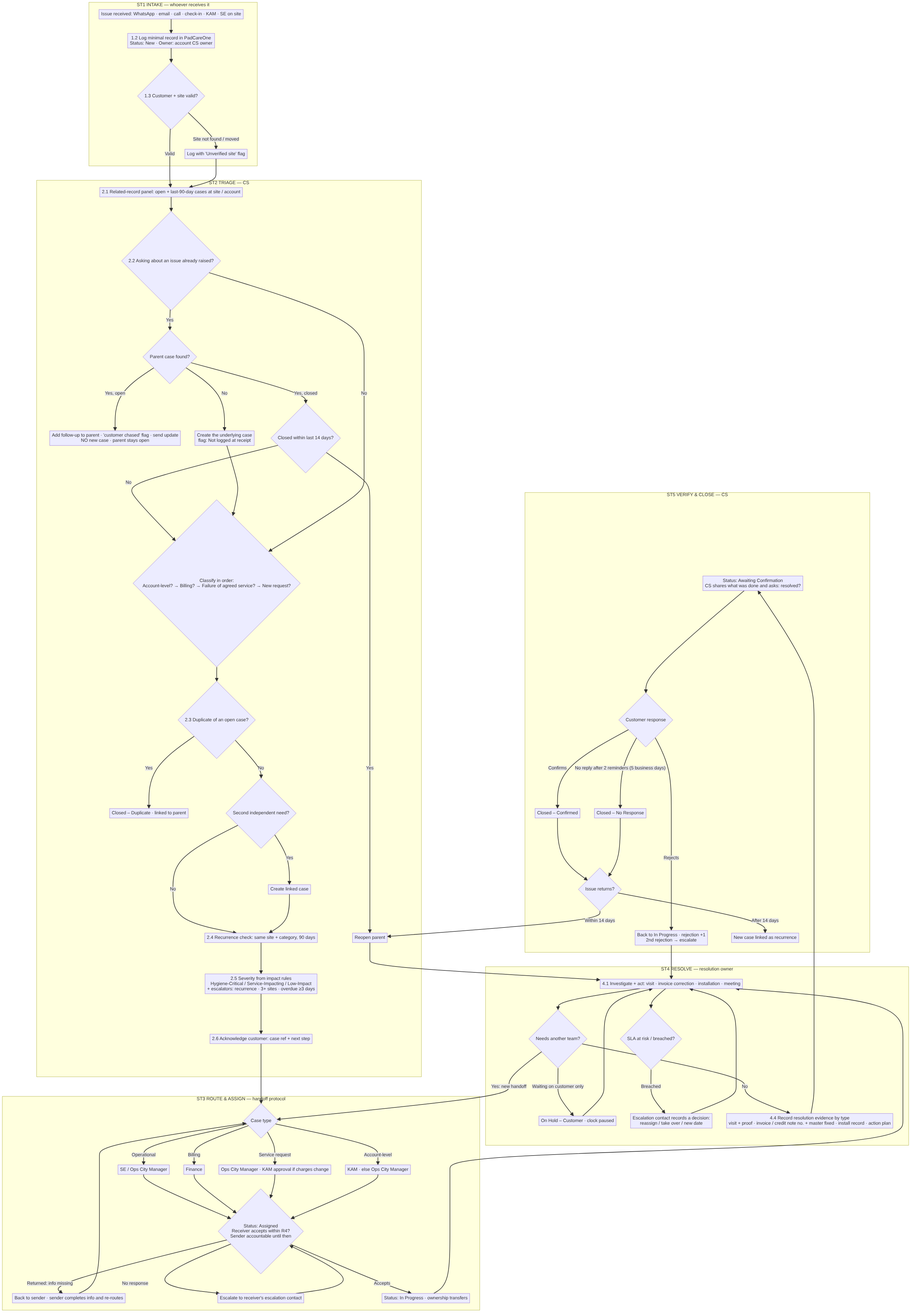
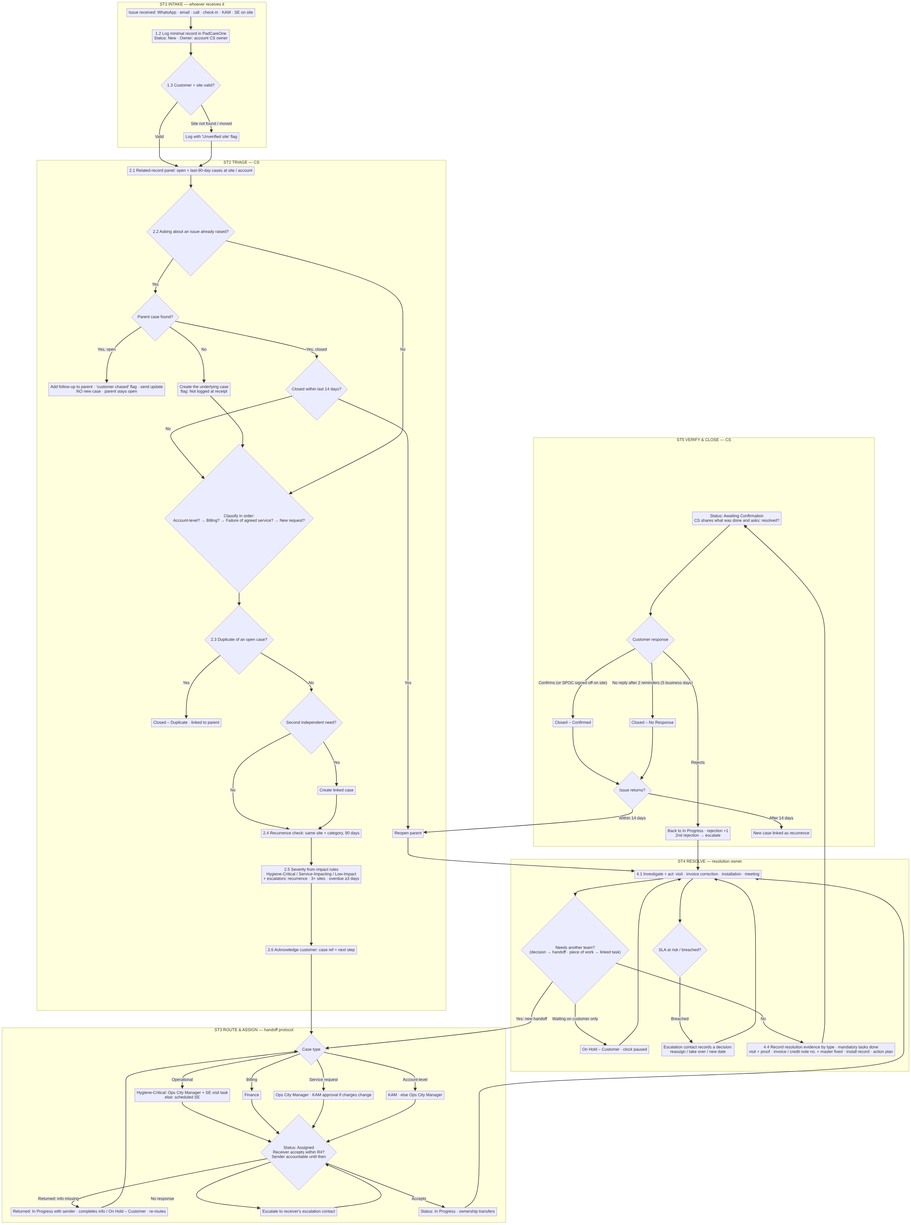
Add PadCare assessment Phase 4: walkthroughs, design review, v1.1 flow fixes
Claude-Session: https://claude.ai/code/session_01P9ewpUXrB5sSqw25BBShWy

Changed region(s): [[0.0, 0.0, 1.0, 1.0], [0.0, 0.9631, 0.1864, 0.9942]]

diff --git a/padcare-assessment/02_phase2/end_to_end_flow.md b/padcare-assessment/02_phase2/end_to_end_flow.md
@@ -1,5 +1,7 @@
 # Phase 2 — End-to-End Process Design
 
+Revision: v1.1 — walkthrough fixes F-1…F-8, F-10 applied (marked †; see `04_phase4/design_review.md`).
+
 Diagram: `complaint_lifecycle.mmd` (rendered: `complaint_lifecycle.png`). SLA targets: `sla_matrix.md`.
 Case types and the classification order come from `01_phase1/classification_matrix.md` and are reused unchanged.
 All rules here are **proposals** for validation with PadCare `[A-07]`.
@@ -37,6 +39,8 @@ All rules here are **proposals** for validation with PadCare `[A-07]`.
 The Log step is meant to take about 2 minutes. Everything else is completed at Triage `[D-15]`.
 Mandatory at Log: customer account, site, reporter (name, contact, role), channel, date/time received (defaults to now and can be backdated), customer's words (verbatim), and the logger's best-guess type.
 *Full field specification: Phase 5.*
+
+If CS already replied informally before logging (e.g., "checking" on WhatsApp), the logger records **"customer already acknowledged at [time]"**. This is kept as a customer update, but only an acknowledgement that includes a case reference counts towards R3 † (F-10).
 
 On save:
 - Case ID generated.
@@ -102,8 +106,8 @@ This turns "the third bad-odour complaint" (C-02) into a visible, rule-driven ev
 | Level | Definition (observable test) | Examples from the brief |
 |---|---|---|
 | **Hygiene-Critical** | A hygiene or health exposure **exists at the site now**: waste uncollected beyond schedule with units full, overflowing units, a damaged or leaking unit, contamination | S-01 (if units are full or overdue), the overflow half of S-03 |
-| **Service-Impacting** | PadCare failed an agreed service or billed incorrectly, **without** a current hygiene exposure | Late visit with units not yet full, unit not cleaned properly, SE conduct, S-02 |
-| **Low-Impact** | No service, hygiene or financial consequence | Cosmetic issues; a document error with no effect on the amount; a commercial query with no service failure |
+| **Service-Impacting** | PadCare failed an agreed service, **without** a current hygiene exposure; **or** an invoice the customer cannot act on: wrong amount, or wrong entity/site/address that stops them processing it † (F-1) | Late visit with units not yet full, unit not cleaned properly, SE conduct, S-02 |
+| **Low-Impact** | No service, hygiene or financial consequence | Cosmetic issues; an invoice error that does **not** stop the customer processing it (e.g., a typo in the contact name); a commercial query with no service failure |
 
 **Escalators.** Each raises the level by one, capped at Hygiene-Critical:
 - **Recurrence:** the 3rd or later case at the site for the same category within 90 days (2.4).
@@ -111,7 +115,7 @@ This turns "the third bad-odour complaint" (C-02) into a visible, rule-driven ev
 - **Duration:** missed collection overdue by **≥ 3 days** past its scheduled date `[A-08]` (threshold to be validated per site type).
 
 **Who decides.**
-- The system **proposes** a level from CS's answers to three impact questions: Is there a hygiene exposure now? How many sites/users are affected? Is the service/billing commitment broken? Recurrence and duration are filled in automatically from history and the schedule `[A-02]`.
+- The system **proposes** a level from CS's answers to the impact questions: Is there a hygiene exposure now? How many sites/users are affected? Is the service commitment broken? *(Billing:)* Is the amount wrong, or can the customer not process the invoice? † Recurrence and duration are filled in automatically from history and the schedule `[A-02]`.
 - CS **confirms** the level.
 - CS may raise it, with a reason.
 - **Lowering Hygiene-Critical** requires a reason and is visible to the Ops City Manager.
@@ -138,7 +142,7 @@ CS sends: case reference, the type as the customer would understand it ("a misse
 
 | Case type | First resolution owner after Triage | Typical further handoffs | Escalation contact |
 |---|---|---|---|
-| Operational complaint | **SE** assigned to the site, if known from the schedule `[A-02]`; else the **Ops City Manager** to dispatch an SE. CS keeps it if it can be resolved by a call (e.g., conduct explanation) | SE → CS (evidence) | Ops City Manager; KAM is notified for KAM accounts at Hygiene-Critical or the 3rd recurrence |
+| Operational complaint | **Hygiene-Critical: Ops City Manager**, with the SE visit as a linked task † (F-4). **Otherwise:** the SE scheduled for the site `[A-02]`, else the Ops City Manager to dispatch. CS keeps it if it can be resolved by a call (e.g., conduct explanation) | SE → CS (evidence) | Ops City Manager; KAM is notified for KAM accounts at Hygiene-Critical or the 3rd recurrence |
 | Billing complaint | **Finance** | Finance → CS (outcome to communicate); Finance → master-data owner if the site record is wrong (S-02) `[A-18]` | Finance escalation contact `[A-19]`; KAM notified if a KAM account |
 | Service request | **Ops City Manager** (fulfilment) | → KAM (or CS where there is no KAM) for commercial approval if charges change `[A-16]` → SE (installation) | Ops City Manager |
 | Account-level concern | **KAM**; if no KAM, the Ops City Manager of the account's primary city `[A-10]` | Spawns linked child cases for specific site failures | — (already at the top of the brief's role list) |
@@ -151,13 +155,24 @@ The **communication owner stays CS** for every type `[D-16]`. CS sends all custo
 |---|---|
 | Sending owner / receiving owner | Both recorded |
 | Reason | Mandatory, chosen from a list (e.g., "needs site visit", "invoice correction", "commercial approval", "escalation") plus free text |
-| Required information | A checklist per handoff type. **CS → Finance:** invoice number, invoice month, disputed line or amount, what the customer expects, customer evidence attached. **CS → SE / Ops:** site, exact location on site (e.g., 4th floor), access contact, problem, severity |
+| Required information | A checklist per handoff type. **CS → Finance:** invoice number, invoice month, disputed line or amount, what the customer expects, customer evidence attached; for a wrong site/address, the correct address and effective date (F-7). Finance's own checklist: **identify all invoices affected since the effective date** † (F-8). **CS → SE / Ops:** site, exact location on site (e.g., 4th floor), access contact, problem, severity |
 | Assigned at / due by | Timestamped; acceptance deadline from SLA R4 |
-| Acceptance | The receiver **accepts** (ownership transfers; status `In Progress`) or **returns** it with a reason (back to the sender, status stays `Assigned` to the sender). A return is not a rejection into nowhere |
+| Acceptance | The receiver **accepts** (ownership transfers; status `In Progress`) or **returns** it with a reason (back to the sender, **status `In Progress` with the sender**, so the sender can complete the information or put the case On Hold – Customer † (F-2)). A return is not a rejection into nowhere |
 | Accountability before acceptance | **The sender remains accountable until acceptance** |
 | No response by the deadline | Escalated to the receiver's escalation contact. The sender is notified and stays accountable |
 
-### 3.3 Statuses during routing
+### 3.3 Linked tasks † (F-3)
+Some work by another team does **not** need ownership to move. Examples: the SE visit for a Hygiene-Critical case owned by the Ops City Manager; a site master-data correction needed by Finance (S-02); an installation for a service request.
+
+These are **linked tasks** inside the case:
+- **Fields:** task owner, due date, done/not done, evidence.
+- **The case owner stays accountable** for the case; the task owner is accountable for the task.
+- Task acceptance and overdue escalation follow the handoff timers (R4, 4.3).
+- **A mandatory task that is not done blocks resolution** (4.4).
+
+*Rule of thumb:* hand off when the **next decision** belongs to another team; create a task when only a **piece of work** does.
+
+### 3.4 Statuses during routing
 `Assigned` = waiting for the receiver to accept. `In Progress` = accepted by the current owner. Each new handoff returns the case to `Assigned`.
 This makes the "in nobody's inbox" period (C-04) **visible and measurable** as time spent in `Assigned`.
 
@@ -169,8 +184,8 @@ This makes the "in nobody's inbox" period (C-04) **visible and measurable** as t
 
 | Type | Typical actions | Resolution evidence required before `Awaiting Confirmation` (system-enforced) |
 |---|---|---|
-| Operational complaint | Check the schedule: was the visit scheduled? marked done? → plan the visit → SE visits → fix | A visit record linked to the case **and** proof (photo of serviced unit or SPOC sign-off) **and**, for recurrences, a root-cause note. **Data-integrity flag:** if the schedule shows the visit as "completed" but the customer says it wasn't, the case cannot be resolved without an Ops City Manager note |
-| Billing complaint | Finance checks the invoice against site/service records → corrects, issues a credit note, or confirms it is correct | Corrected invoice no. **or** credit note no. **or** written explanation. **Plus** confirmation that the site/billing master was corrected, where the cause was master data (S-02) `[D-18]` |
+| Operational complaint | Check the schedule: was the visit scheduled? marked done? → plan the visit → SE visits → fix | A visit record linked to the case **and** proof (photo of serviced unit or SPOC sign-off) **and**, for recurrences, a root-cause note **and**, for *Missed collection*, the **next regular visit confirmed in the schedule** † (F-6). All mandatory linked tasks done. **Data-integrity flag:** if the schedule shows the visit as "completed" but the customer says it wasn't, the case cannot be resolved without an Ops City Manager note |
+| Billing complaint | Finance checks the invoice against site/service records → corrects, issues a credit note, or confirms it is correct | Corrected invoice no(s). (all affected invoices) **or** credit note no. **or** written explanation. **Plus** the master-data task completed, where the cause was master data (S-02) `[D-18]` |
 | Service request | Approval (if commercial) → schedule → fulfil | Fulfilment record (e.g., installation done with location, date and photo) **or** a decline reason communicated to the customer |
 | Account-level concern | Pull the account's case history → meeting → action plan → child cases for specific failures | Meeting held (date, attendees), action plan with owners and dates, review date. The customer agreeing to the plan is the confirmation |
 
@@ -210,6 +225,7 @@ When resolution evidence is recorded, the case goes to `Awaiting Confirmation` a
 | Confirms | `Closed – Confirmed` |
 | Rejects ("still overflowing") | Back to `In Progress` with the **last resolution owner**. Rejection count +1; reason recorded. The SLA continues from the original receipt time, not reset. A 2nd rejection escalates (4.3) |
 | No response | Reminders at 2 and 4 business days; `Closed – No Response` at 5 business days. This closure is **excluded from the "customer-confirmed" rate** (C-05 metric) |
+| **Reporter or SPOC signed off on site** in the SE app (operational) † (F-5) | Counts as confirmation → `Closed – Confirmed (on site)`. CS sends a closure note, not a question. A sign-off by anyone else (e.g., security staff) still needs the CS request |
 | Customer unreachable but the SE confirms on the next visit (operational only) | May be recorded as confirmation with the SE as the confirmer. Shown separately in reporting |
 
 ### 5.3 Closure rules
@@ -244,6 +260,7 @@ This is the raw material for Phase 7 metrics (C-06).
 | `handoff_initiated` / `handoff_accepted` / `handoff_returned` | 3.2 | Time in `Assigned`, return rate (C-04) |
 | `status_changed` (incl. hold start/end) | All | Ageing, SLA clocks |
 | `escalated` (trigger, to whom, decision) | 4.3 | Escalation rate |
+| `task_created` / `task_done` (owner, due) | 3.3 | Task ageing by team (C-04) |
 | `resolution_recorded` (evidence type) | 4.4 | Time to resolution |
 | `confirmation_requested` / `confirmed` / `rejected` / `no_response` | 5.x | Confirmation rate, rejection rate (C-05) |
 | `closed` (reason) / `reopened` | 5.3–5.4 | Reopen rate (C-05) |
@@ -259,7 +276,8 @@ stateDiagram-v2
     New --> InProgress : Triaged, CS resolves it directly
     New --> Closed : Duplicate / invalid (reason)
     Assigned --> InProgress : Receiver accepts
-    Assigned --> Assigned : Returned to sender / escalated (not accepted)
+    Assigned --> InProgress : Returned to sender (sender resumes)
+    Assigned --> Assigned : Escalated (not accepted)
     InProgress --> Assigned : Handoff to another owner
     InProgress --> OnHoldCustomer : Waiting on customer only
     OnHoldCustomer --> InProgress : Customer responds
@@ -274,7 +292,7 @@ stateDiagram-v2
 | Status | Meaning | Accountable owner | Who may move it out |
 |---|---|---|---|
 | `New` | Logged, not yet triaged | Account CS owner (or city CS queue) | CS |
-| `Assigned` | Handed off, not yet accepted | **Sender** (until acceptance) | Receiver (accept/return); escalation contact |
+| `Assigned` | Handed off, not yet accepted | **Sender** (until acceptance) | Receiver (accept → `In Progress` with the receiver; return → `In Progress` with the sender); escalation contact |
 | `In Progress` | Owner is working on it | Current resolution owner | Owner; CS (for hold/closure paths) |
 | `On Hold – Customer` | Waiting on the customer only; clock paused | CS | CS; system (time-out) |
 | `Awaiting Confirmation` | Evidence recorded; customer asked to confirm | CS | CS; system (time-out) |

diff --git a/padcare-assessment/04_phase4/task2_walkthroughs.md b/padcare-assessment/04_phase4/task2_walkthroughs.md
@@ -1,0 +1,132 @@
+# Phase 4 — Task 2: Two Complaints Walked Through the Design
+
+- **Selection:** S-01 (missed collection, operational) and S-02 (billing, satisfies the "#2 or #5" rule) `[D-07]`.
+- **Step references** (1.2, 2.5, R4…) are to `02_phase2/end_to_end_flow.md` and `sla_matrix.md`.
+- **Times are illustrative**, chosen to be realistic within the proposed SLAs. They are **not** PadCare performance data. Business hours: 09:00–18:00 Mon–Sat `[A-12]`.
+- **⚠ F-x** marks where the walkthrough exposed a problem. Findings and fixes are in `design_review.md`.
+
+---
+
+## Walkthrough A — S-01: "Collection was not collected this month. Please plan the visit ASAP, as it's a hygiene issue."
+
+**Setting (illustrative):** a corporate office site; monthly collection; the Client SPOC (facility manager) WhatsApps their CS contact.
+
+### Intake captured at 1.2 (by the CS person who received the WhatsApp)
+- **Customer, site:** looked up from master data.
+- **Reporter:** SPOC — name, phone, role "Facility manager".
+- **Channel:** WhatsApp to CS.
+- **Received at:** Day 1 (Mon) 10:05, taken from the message timestamp.
+- **Customer's words:** verbatim, with a screenshot.
+- **Logger's best guess:** Operational complaint.
+
+### Timeline
+
+| Time | Step | Accountable owner | Status | What happens | SLA check |
+|---|---|---|---|---|---|
+| D1 10:05 | 1.1 | — | — | WhatsApp received by the CS owner | Clocks start (received at) |
+| D1 10:40 | 1.2–1.3 | CS (account owner) | `New` | Logged in about 2 min; customer and site valid | R1 (1 h for Hygiene-Critical, HC): 35 min ✓ |
+| D1 10:45 | 2.1 | CS | `New` | Related-record panel: no open cases. **One earlier missed collection at this site 50 days ago** (count = 2 in 90 days, not yet a recurrence). Schedule shows this month's visit (due on the 6th) as *Rescheduled* with no new date `[A-02]` | — |
+| D1 10:50 | 2.2–2.3 | CS | `New` | Q1 no (new issue) → Q2 no → Q3 no → **Q4 yes: PadCare missed a committed service → Operational complaint / Missed collection**. No duplicate. "Plan the visit" is the fix itself, not a second need → no split | — |
+| D1 11:05 | 2.5 | CS | `New` | Impact questions. *Hygiene exposure now?* CS asks the SPOC: bins full on two floors → **yes**. *Overdue?* 7 days past schedule (escalator ≥ 3 days). **Severity = Hygiene-Critical.** The customer's word "hygiene" triggered the question, but the **answer came from facts** (C-8) | R2 (1 h from log): 25 min ✓ |
+| D1 11:15 | 2.6 | CS | `New` | Acknowledgement on WhatsApp: case ref, "missed collection, marked urgent; visit time by 2 pm"; logged as a customer update | R3 (2 h): 1 h 10 ✓ |
+| D1 11:20 | 3.1–3.2 | **CS** (until acceptance) | `Assigned` → SE-1 | Routed to SE-1, the site's scheduled SE. Checklist: site, floors, access contact, severity, problem | R4 deadline 12:20 |
+| D1 12:20 | 4.3 | CS | `Assigned` | **SE-1 has not accepted**: on route, phone not checked. Auto-escalation to the **Ops City Manager** ⚠ F-4 | R4 breached → decision due in 1 h |
+| D1 12:45 | 4.3 | CS | `Assigned` → SE-2 | Ops City Manager records the decision: *reassign to SE-2* (nearby route) | Decision in 25 min ✓ |
+| D1 12:55 | 3.3 | **SE-2** | `In Progress` | SE-2 accepts on mobile `[A-05]`; ownership transfers | — |
+| D1 13:05 | R5 | SE-2 (CS communicates) | `In Progress` | CS sends the ETA: "visit today 16:30" | R5 (4 h): 3 h ✓ |
+| D1 16:30–16:50 | 4.1 | SE-2 | `In Progress` | Collection done on all floors; photo; **SPOC signs off in the SE app** `[A-21]` | — |
+| D1 16:55 | 4.4 | SE-2 → **CS** | `Awaiting Confirmation` | Evidence recorded: visit record + photo + sign-off. Ownership returns to CS. ⚠ F-6: nothing checks that **next month's** visit is back on the schedule | X1 (24 h): 6 h 50 ✓ |
+| D1 17:30 | 5.1 | CS | `Awaiting Confirmation` | CS sends the photo and asks "Is this resolved?" ⚠ F-5: the SPOC already signed off on site; asking again is duplicate effort | V1 (same day for HC) ✓ |
+| D2 09:40 | 5.2–5.3 | CS | `Closed – Confirmed` | SPOC: "Yes, thanks." CS closes with reason *Confirmed* | Within V2 ✓ |
+
+### Classification rationale (why)
+- **Operational, not a service request:** the customer asks PadCare to make good a missed commitment, not to add anything.
+- **Hygiene-Critical** because the bins were full (exposure now) and the visit was 7 days overdue. It would be the same severity if a junior employee had reported it politely.
+- **Priority:** top of the city queue (HC + R4 breach flag).
+
+### Ownership trail
+CS (New) → CS accountable while assigned to SE-1 → Ops City Manager decides → **SE-2** (In Progress) → **CS** (Awaiting Confirmation) → Closed.
+CS was the communication owner throughout.
+
+### Duration
+- **Fix:** 6 h 50 (target 24 h).
+- **Closure:** about 23.5 h.
+- The SE escalation cost about 1.5 h of the fix time.
+
+### Alternative paths tested
+| If… | Then… |
+|---|---|
+| The schedule shows the visit as **Completed** but the customer says it was not | Data-integrity flag (4.1): cannot be resolved without an Ops City Manager note; a possible SE-conduct case is created and linked |
+| Bins are not full and the visit is only 1 day overdue | Service-Impacting; X1 = 3 business days; added to the next route |
+| This was the **3rd** missed collection in 90 days | Recurrence → severity already at maximum; Ops City Manager root-cause review; KAM informed if it is a KAM account |
+| SPOC replies "only 2 of 4 floors collected" | Rejected → `In Progress` with SE-2; rejection count 1; the SLA continues from the original receipt |
+
+---
+
+## Walkthrough B — S-02: "Your invoice for September shows charges for the Hyderabad site, but we shifted to a new location in July. Please correct the address."
+
+**Setting (illustrative):** a multi-site corporate customer; the SPOC emails the generic support inbox.
+
+### Intake captured at 1.2 (by the CS person on inbox duty — *not* the account's CS owner)
+- **Customer:** looked up.
+- **Site:** Hyderabad site (the old record).
+- **Reporter:** SPOC — email, role "Admin / facilities".
+- **Channel:** support email.
+- **Received at:** D1 (Wed) 11:30.
+- **Customer's words:** email text pasted.
+- **Logger's best guess:** Billing.
+
+### Timeline
+
+| Time | Step | Accountable owner | Status | What happens | SLA check |
+|---|---|---|---|---|---|
+| D1 11:30 | 1.1 | — | — | Email arrives in the support inbox | Clocks start |
+| D1 13:00 | 1.2–1.3 | **Account CS owner** (auto) | `New` | The inbox-duty CS logs it. Site exists, but the customer says it moved → **"Unverified site" warning** (not blocking). The case lands with the account's CS owner, not the inbox person (C-1) | R1 (2 business h): 1 h 30 ✓ |
+| D1 14:30 | 2.1 | CS | `New` | Panel: no open cases; no billing cases in 90 days. Schedule: services Jul–Sep recorded against the Hyderabad site record | — |
+| D1 14:40 | 2.2 | CS | `New` | **Triage question from Phase 1:** address only, or charges for a vacated site? CS calls the SPOC: services continue at the new location, the amount is right, but **their accounts team cannot process an invoice with the old address**. Q1 no → Q2 no → **Q3 yes → Billing complaint / Wrong site-address** | — |
+| D1 14:50 | 2.5 | CS | `New` | Impact: no hygiene exposure; invoice is wrong. ⚠ F-1: the Low-Impact definition ("document error with no effect on amount") and the Service-Impacting definition ("billed incorrectly") **both fit**. CS chooses **Service-Impacting** because the invoice is unusable | R2 (4 business h from log) ✓ |
+| D1 15:00 | 2.6 | CS | `New` | Acknowledgement email: case ref; Finance will correct; next update by tomorrow | R3 (same day) ✓ |
+| D1 15:10 | 3.2 | **CS** (until acceptance) | `Assigned` → Finance | Handoff checklist: invoice no. (Sept), disputed item = billing address, expectation = reissued invoice, customer email attached | R4 (4 business h) |
+| D1 16:30 | 3.3 | CS | `Assigned` | **Finance returns it:** "new address and effective date missing" ⚠ F-7. As designed, the case is back with CS in `Assigned`. **CS cannot put it On Hold from `Assigned`** — the state diagram only allows On Hold from `In Progress` ⚠ F-2. Workaround: CS moves it to `In Progress`, then On Hold | — |
+| D1 16:45 | 4.2 | CS | `On Hold – Customer` | CS emails the SPOC for the new address and move date. Clock paused | — |
+| D2 10:15 | 4.2 | CS | `In Progress` | Customer replies: new address, effective **15 July**. Clock resumes (paused 2 h 30 business time) | — |
+| D2 10:30 | 3.2 | CS | `Assigned` → Finance | Re-handoff with complete information | R4 deadline 14:30 |
+| D2 11:30 | 3.3 | **Finance** | `In Progress` | Finance accepts | R4: 1 h ✓ |
+| D2 12:00 | R5 | Finance (CS communicates) | `In Progress` | CS update: "corrected invoice by Monday" | R5 (1 business day + hold) ✓ |
+| D2 15:00 | 4.1 | Finance | `In Progress` | Finance finds that the **July and August** invoices also carry the old address; the customer only mentioned September ⚠ F-8. Root cause: the **site master record was never updated** `[D-18]` | — |
+| D2 15:15 | 4.4 | Finance | `In Progress` | Finance needs the site record corrected by its owner (assumed the Hyderabad Ops City Manager `[A-18]`). **The only tool is a handoff, which would move ownership away from Finance.** Finance emails the Ops City Manager instead — today's informal behaviour ⚠ F-3 | — |
+| D3 (Fri) 15:00 | — | Finance | `In Progress` | Site record updated: new address, effective 15 July | — |
+| D5 (Mon) 12:00 | 4.4 | Finance → **CS** | `Awaiting Confirmation` | Reissued Jul/Aug/Sep invoices (numbers recorded) + master-data change reference = evidence | X2 (5 business days): ~3.8 business days net of hold ✓ |
+| D5 14:00 | 5.1 | CS | `Awaiting Confirmation` | CS emails the reissued invoices; asks the customer to confirm | V1 ✓ |
+| D7 (Wed) 10:00 | 5.2 | CS | `Awaiting Confirmation` | Automatic reminder 1 (day 2) | — |
+| D7 15:20 | 5.3 | CS | `Closed – Confirmed` | Customer: "Received, all fine." Closed | Within V2 ✓ |
+
+### Classification rationale (why)
+- **Billing, not a service request** to change site details: the customer's need is a corrected invoice.
+  - The site-record fix is PadCare's internal root cause. It is not a separate customer request.
+- **Service-Impacting:** the customer cannot use the invoice. The rule wording had to be stretched to reach this (F-1).
+- **No severity escalator applied.** The fact that three invoices were affected only surfaced during investigation.
+
+### Ownership trail
+CS (New) → CS accountable while assigned to Finance → returned to CS → CS (On Hold – Customer) → CS → **Finance** (In Progress, with an untracked request to the Ops City Manager) → **CS** (Awaiting Confirmation) → Closed.
+
+### Duration
+- **Resolution:** about 3.8 business days net of the 2.5 h customer hold (target 5).
+- **Closure:** 6 business days.
+- The missing-information return cost most of a day.
+
+### Alternative paths tested
+| If… | Then… |
+|---|---|
+| The customer was charged for services at the **vacated** site | Sub-category → *Charged for service not delivered*; Finance issues a credit note; **Ops must explain why visits were recorded at an address the customer had left** (data-integrity flag, linked operational case) |
+| Finance finds the invoice correct (e.g., the move was never notified) | Evidence = documented explanation; CS communicates it; if the customer rejects twice → escalate (KAM if the account has one) |
+| The customer never confirms | Reminders at day 2 and 4 → `Closed – No Response` at day 5; reported separately |
+| The October invoice is wrong again | Recurrence (new billing case linked). With the master fixed, this should not happen; v2 automatic check (F-9) |
+
+---
+
+## Task 2 Reasoning note (draft — rewrite in your own words)
+
+> Both cases met every proposed SLA, but walking them exposed gaps the flow diagram hides. The billing case had no clean way for Finance to get the site record fixed without giving up ownership. So I added linked tasks: work by another team that does not move accountability. Finance's return for missing information showed the intake form must ask for the new address and effective date when the sub-category is a wrong site. It also showed my state diagram blocked "On Hold" after a return. In the missed collection, a field SE could not realistically accept within an hour, so Hygiene-Critical visits now route to the Ops City Manager to dispatch. I also caught myself rating an address-only invoice error under two different severity definitions, and tightened the billing definition.
+
+Word count: ~120 (≈ 6–7 lines at A4 width). Trim further if needed.

diff --git a/padcare-assessment/04_phase4/design_review.md b/padcare-assessment/04_phase4/design_review.md
@@ -1,0 +1,39 @@
+# Phase 4 — Design Review (findings from the walkthroughs)
+
+Each finding states: what broke, why it matters, the fix, and whether it is applied now (**v1** — the Task 1 design is updated) or deferred (**v2**).
+
+| ID | Found in | Type | What broke | Why it matters | Fix | Version |
+|---|---|---|---|---|---|---|
+| **F-1** | S-02, step 2.5 | **Inconsistency** | Phase 1 rated S-02 *Service-Impacting*; Phase 2 defines *Low-Impact* as "a document error with no effect on the amount", which describes S-02 exactly. Two defined rules give two answers | Severity must be the same whoever triages (C-8); a rule that depends on interpretation brings back judgement calls | Billing severity is redefined by **whether the customer can act on the invoice**: *Service-Impacting* = amount wrong **or** the invoice cannot be processed by the customer (wrong entity, site or address). *Low-Impact* = a cosmetic error that does not stop processing. The "unusable invoice" test is asked as an impact question | **v1** |
+| **F-2** | S-02, step 3.3 | **State-machine gap** | A returned handoff left the case in `Assigned` with the sender, but `On Hold – Customer` is only reachable from `In Progress`. CS needed a workaround | A spec a developer builds literally would block a real path; workarounds corrupt timestamps | Return → **`In Progress` with the sender** (the sender was already the accountable owner). Transition updated | **v1** |
+| **F-3** | S-02, step 4.4 | **Missing concept** | Finance needed another team (the site master-data owner) to do a piece of work. The only tool was a handoff, which would move ownership; Finance fell back to email | This recreates C-04's "forwarded emails" *inside* the new system | Add **linked tasks**: owner, due date, done/not done, inside a case. The **case owner stays accountable**; the task owner is accountable for the task; overdue tasks escalate like handoffs; **mandatory tasks block resolution**. Also used for SE visits (F-4) and S-03-style installations | **v1** |
+| **F-4** | S-01, step 3.2 | **Practicality** | Hygiene-Critical cases were assigned to an SE in the field with a 1 h acceptance target. The SE was on route and did not respond; escalation worked but cost ~1.5 h | The most urgent cases depend on the person least able to respond to notifications | For **Hygiene-Critical** operational complaints, the resolution owner = **Ops City Manager** (desk-based, accepts within 1 h). The SE visit is a **linked task** (F-3). Service-Impacting / Low-Impact still go to the scheduled SE (4 business h acceptance is workable). *Trade-off:* more load on Ops City Managers; validate volume | **v1** |
+| **F-5** | S-01, step 5.1 | **Duplicate effort** | The SPOC signed off on site in the SE app, then CS asked "is this resolved?" again | Asking twice irritates customers and delays closure | If the **sign-off is by the reporter or the SPOC**, it counts as confirmation → `Closed – Confirmed (on site)`; CS sends a closure note instead of a question. A sign-off by anyone else (e.g., security) still triggers the CS request | **v1** |
+| **F-6** | S-01, step 4.4 | **Root cause left open** | One make-up visit resolved the case, but the regular schedule had dropped (*Rescheduled* with no date). Next month could be missed again | The case closes "resolved" while the cause continues; it returns as a recurrence (C-02, C-05) | Evidence for *Missed collection* adds: **"next scheduled visit confirmed in the schedule"** (date) | **v1** |
+| **F-7** | S-02, step 3.3 | **Intake gap** | Finance returned the case for the missing new address and effective date | Each return costs about a day; the information was predictable from the sub-category | Task 3: when sub-category = *Wrong site/address*, **correct address + effective date are mandatory at triage** (hard validation before a Finance handoff) | **v1** (Phase 5) |
+| **F-8** | S-02, step 4.1 | **Scope blind spot** | The customer named September; July and August were also wrong | Fixing only the reported invoice guarantees a second complaint | Finance handoff checklist adds **"identify all invoices affected since the effective date"**; the evidence lists every reissued invoice | **v1** |
+| **F-9** | S-02, closure | **Verification gap** | Nothing confirms the *next* invoice is correct after the master-data fix | The fix is assumed, not verified | Automatically flag the account's next invoice for a check (needs billing data in PadCareOne `[A-03]`) | **v2** |
+| **F-10** | S-01, R3 | **Measurement risk** | If CS replies informally on WhatsApp ("checking") before logging, R3 is measured only from the logged acknowledgement | Fair performance data; avoids gaming | At Log, allow "**customer already acknowledged at** [time]" to be recorded as a customer update. Only acknowledgements that include a case reference count towards R3 | **v1** (minor) |
+| **F-11** | Both | **Assumption exposed** | The site master-data owner is unknown `[A-18]`; F-3 tasks need a named owner | A task with no owner is the C-04 problem again | Name the owner during PadCare validation. Default until then: the Ops City Manager of the site's city | Open question |
+
+## What I would change but deliberately did not
+
+| Idea | Why not in v1 |
+|---|---|
+| Auto-confirm closure when the SE app sign-off exists for every case | The sign-off can come from someone who did not report the issue; the confirmation must come from the person who complained or the SPOC |
+| Merge Finance and CS into one "billing desk" owner | Changes PadCare's organisation, which is beyond a product design |
+| Severity escalator for "3+ invoices affected" | Known only after investigation; severity is set at triage. Use the recurrence rule instead if it repeats |
+
+## Changes applied to the Task 1 design (v1)
+
+Changes applied in `02_phase2/end_to_end_flow.md`, marked † in the final document:
+1. Billing severity definitions (F-1).
+2. Return → `In Progress` with the sender (F-2), in the state diagram and status table.
+3. Linked tasks concept (F-3) in ST3/ST4.
+4. Hygiene-Critical operational routing to the Ops City Manager plus an SE task (F-4).
+5. On-site sign-off as confirmation (F-5).
+6. Missed-collection evidence includes the next scheduled visit (F-6).
+7. Finance checklist: all affected invoices (F-8).
+8. Prior-acknowledgement capture (F-10).
+
+F-7 goes into the Task 3 spec (Phase 5). F-9 is listed as v2.

diff --git a/padcare-assessment/00_phase0/requirements_matrix.md b/padcare-assessment/00_phase0/requirements_matrix.md
@@ -61,15 +61,15 @@ Status values: `Not started` · `In progress` · `Done` · `Verified` (passed Ph
 
 | Req ID | Assessment requirement | Required output | Planned implementation | Validation method | Status |
 |---|---|---|---|---|---|
-| T2-01 | Pick two of five; at least one must be #2 (billing) or #5 (account-level) | Two walkthroughs | S-01 + S-02 (confirmed, D-07) | Selection includes S-02 or S-05 | Not started |
-| T2-02 | Narrate: how/where it enters; info captured at intake, and by whom | Section per walkthrough | Stage-referenced timeline | Uses Task 1 stage names verbatim | Not started |
-| T2-03 | Narrate: classification — category, severity, priority — and why | Section | Applies Task 1 rules explicitly | Same result as classification table | Not started |
-| T2-04 | Narrate: owner at each stage; handoffs | Section | Owner column in timeline | No ownerless gap | Not started |
-| T2-05 | Narrate: what gets done to resolve (calls, visits, credit notes) | Section | Action log | Matches resolution evidence rule | Not started |
-| T2-06 | Narrate: how closure happens — who confirms, on what basis | Section | Closure step | Matches closure rule | Not started |
-| T2-07 | Narrate: how long the whole thing takes (per SLAs) | Elapsed-time view | Illustrative timeline consistent with SLA matrix | Sums agree with SLA matrix | Not started |
-| T2-D1 | Deliverable: ~1 page per complaint, referencing stages explicitly | 2 × ~1 page | Table-led walkthrough | Page length check | Not started |
-| T2-D2 | Deliverable: Reasoning note — did the walkthroughs surface anything you'd change? | 3–6 line note | Cite ≥1 real inconsistency found + v1/v2 fix (assessment calls self-critique "gold") | Names a concrete flaw | Not started |
+| T2-01 | Pick two of five; at least one must be #2 (billing) or #5 (account-level) | Two walkthroughs | S-01 + S-02 (confirmed, D-07) | Selection includes S-02 or S-05 | Done |
+| T2-02 | Narrate: how/where it enters; info captured at intake, and by whom | Section per walkthrough | Stage-referenced timeline | Uses Task 1 stage names verbatim | Done |
+| T2-03 | Narrate: classification — category, severity, priority — and why | Section | Applies Task 1 rules explicitly | Same result as classification table | Done |
+| T2-04 | Narrate: owner at each stage; handoffs | Section | Owner column in timeline | No ownerless gap | Done |
+| T2-05 | Narrate: what gets done to resolve (calls, visits, credit notes) | Section | Action log | Matches resolution evidence rule | Done |
+| T2-06 | Narrate: how closure happens — who confirms, on what basis | Section | Closure step | Matches closure rule | Done |
+| T2-07 | Narrate: how long the whole thing takes (per SLAs) | Elapsed-time view | Illustrative timeline consistent with SLA matrix | Sums agree with SLA matrix | Done |
+| T2-D1 | Deliverable: ~1 page per complaint, referencing stages explicitly | 2 × ~1 page | Table-led walkthrough | Page length check | Done |
+| T2-D2 | Deliverable: Reasoning note — did the walkthroughs surface anything you'd change? | 3–6 line note | Cite ≥1 real inconsistency found + v1/v2 fix (assessment calls self-critique "gold") | Names a concrete flaw | Done |
 
 ## T3. Task 3 — Intake form functional specification
 

diff --git a/padcare-assessment/03_phase3/challenges_map.md b/padcare-assessment/03_phase3/challenges_map.md
@@ -9,7 +9,7 @@ Step references (e.g., 2.5, R6) point to `02_phase2/end_to_end_flow.md` and `sla
 | 1 | Complaints lost between channels | **Whoever receives an issue logs it**, from any of the 6 channels, in a 2-minute Log step. The case is **owned by the account's CS owner from the moment it is logged**, or by the city CS queue if that person is on leave. A status enquiry about an issue with no case exposes the loss (flag *Not logged at receipt*) | 1.1, 1.2, 2.2 · R1 | ◐ |
 | 2 | Repeat vs new unknown | **Related-record panel shown before classification** (open cases + same site/category in 90 days). The **3rd case in 90 days is marked "Recurrence"**, raises severity one level, and needs a root-cause note to resolve | 2.1, 2.4, 2.5, 4.1 | ● |
 | 3 | Requests, status checks, account concerns all called "complaints" | **4 case types** with their own owner, path and closure evidence, chosen by **5 ordered questions**. **A status check is not a case**; it is attached to its parent. Mixed messages are **split into linked cases** (S-03) | 2.2, 2.3 · Phase 1 matrix | ● |
-| 4 | No clear handoff between teams | **Formal handoff:** reason + required-info checklist + due time. **The sender stays accountable until the receiver accepts or returns it**; non-acceptance escalates. CS remains the **communication owner** throughout | 3.1, 3.2, 4.3 · R4 | ● |
+| 4 | No clear handoff between teams | **Formal handoff:** reason + required-info checklist + due time. **The sender stays accountable until the receiver accepts or returns it**; non-acceptance escalates. Work by another team that doesn't need ownership to move is a **linked task** with an owner and due date. CS remains the **communication owner** throughout | 3.1–3.3, 4.3 · R4 | ● |
 | 5 | "Resolved" ≠ resolved | **Resolution evidence required by type** (visit proof, invoice/credit note no., install record, action plan) before **Awaiting Confirmation**. Closure needs the customer's confirmation or a defined no-response rule. Rejection reopens the case; a recurrence within 14 days reopens it | 4.1, 5.1–5.4 · V1–V3 | ● |
 | 6 | Can't see patterns | **Structured fields** (city, site, customer, type, sub-category, severity, channel) and an **event log** for every status, owner and customer update. This enables, e.g., "% of missed-service complaints by city last quarter" | ST6 · Phase 7 metrics | ● |
 | 7 | Customer has no visibility | **CS sends updates at fixed points** (acknowledgement with case ref, ETA, any ETA change, resolution) plus a **"maximum silence" timer** per severity. Status enquiries are counted per case, so chasing is measured | 2.6, 5.1 · R3, R5, R6 | ◐ |

diff --git a/padcare-assessment/00_phase0/project_plan.md b/padcare-assessment/00_phase0/project_plan.md
@@ -9,8 +9,8 @@ Each phase ends with a review gate: the candidate reads the output, confirms or 
 | 0 | Extract requirements, set up logs | requirements_matrix, assumptions_register, decision_log, project_plan | — | all (mapping) | Done |
 | 1 | Problem framing, scope, record types | problem_definition, classification_matrix | 0 | C-03, S-01…S-05, T1-02 | Done |
 | 2 | End-to-end process, diagram, SLAs | end_to_end_flow, complaint_lifecycle.mmd, sla_matrix | 1 | T1-01…T1-06, T1-D1, C-01, C-04, C-05, C-08 | Done |
-| 3 | Task 1 reasoning + Challenges Map | task1_reasoning, challenges_map | 2 | T1-D2, T1-D3, G-03, C-01…C-08 | **Done — awaiting review** |
-| 4 | Task 2 walkthroughs + self-critique | task2_walkthroughs, design_review | 2, 3 | T2-01…T2-D2 | Not started |
+| 3 | Task 1 reasoning + Challenges Map | task1_reasoning, challenges_map | 2 | T1-D2, T1-D3, G-03, C-01…C-08 | Done |
+| 4 | Task 2 walkthroughs + self-critique | task2_walkthroughs, design_review | 2, 3 | T2-01…T2-D2 | **Done — awaiting review** |
 | 5 | Task 3 intake spec | intake_form_spec, validation_rules, exception_handling | 1, 2, 4 | T3-01…T3-05, T3-D1 | Not started |
 | 6 | Functional test cases (billing) | test_cases, requirements_traceability | 5 | T3-06, T3-D2 | Not started |
 | 7 | Data model + analytics | data_model, analytics_spec | 5 | C-06 | Not started |
@@ -20,6 +20,9 @@ Each phase ends with a review gate: the candidate reads the output, confirms or 
 
 ## Notes carried forward
 - Phase 9: the detailed flow diagram is too dense for an A4 page. Draw a **simplified top-level diagram** for the document (ST1–ST5 with the main decisions), and link or append the detailed one.
+
+- Phase 5: apply F-7 (wrong site/address → new address + effective date mandatory before the Finance handoff).
+- Phase 9: the final document's walkthroughs keep the ⚠ markers; Task 1 changes are marked †.
 
 ## Key risks to the submission
 
@@ -41,4 +44,5 @@ Only questions that would materially change the design. Defaults apply if unansw
 | Q-03 | Deadline / hours available? | Full plan, phase by phase |
 | Q-04 | Use "Case" as the umbrella term? | **Recommended in Phase 1:** yes (D-06/D-10) — confirm |
 | Q-06 | Rewrite the Task 1 Reasoning note (03_phase3/task1_reasoning.md §C) in your own words | Draft stays, flagged |
+| Q-07 | Rewrite the Task 2 Reasoning note (04_phase4/task2_walkthroughs.md, end) in your own words; trim to ≤ 6 lines | Draft stays, flagged |
 | Q-05 | Task 3 reasoning asks what was *hardest for you* — please note your honest reaction as we go | Draft one, flag for your rewrite |

diff --git a/padcare-assessment/00_phase0/decision_log.md b/padcare-assessment/00_phase0/decision_log.md
@@ -34,3 +34,8 @@ Status: `Proposed` (AI-drafted, candidate not yet confirmed) · `Confirmed` (can
 | D-25 | SLA clock start | Logged at vs received at | **Received at.** Logging delay counts against PadCare and stays visible (C-01). | Received time is entered by the logger, so it can be wrong; backdating is allowed but audited | Proposed (Phase 2) |
 | D-26 | Clock pauses | Pause for internal waits vs customer only | **Customer only (`On Hold – Customer`).** Internal waits are exactly what C-04 must expose. | Teams may feel targets are unfair when another team is slow; the handoff data shows where time went | Proposed (Phase 2) |
 | D-27 | Status list | Prompt's 6 statuses incl. "Under Triage" vs leaner | **New · Assigned · In Progress · On Hold – Customer · Awaiting Confirmation · Closed (with reason).** "Under Triage" is dropped because triage is a short action by one person and is measured by timestamp; reopen is an event, not a status. | Slightly less granular status reporting | Proposed (Phase 2) |
+| D-28 | How to present walkthrough findings | (a) Silently fix earlier phases; (b) Show the run with ⚠ markers, list fixes, update Task 1 marked † | **(b)** The brief rewards catching flaws ("self-critique is gold") *and* demands consistency. Showing both the discovery and the corrected design gives both. | The document carries † markers the reader must follow | Proposed (Phase 4) |
+| D-29 | Linked tasks (F-3) | Handoff only vs handoff + tasks | **Add tasks.** Hand off when the *next decision* belongs to another team; create a task when only a *piece of work* does. Mandatory tasks block resolution. | One more concept; risk of using tasks to avoid real handoffs | Proposed (Phase 4) |
+| D-30 | Hygiene-Critical operational routing (F-4) | SE owner vs Ops City Manager owner + SE task | **Ops City Manager owns Hygiene-Critical cases**, because SEs in the field cannot reliably accept within 1 h. Lower severities stay with the scheduled SE. | More load on Ops City Managers; validate volume per city | Proposed (Phase 4) |
+| D-31 | Billing severity (F-1) | Amount-based vs "can the customer act on it" | **Customer can't process it, or the amount is wrong → Service-Impacting**; cosmetic → Low-Impact. Removes the ambiguity S-02 exposed. | Requires CS to ask the question | Proposed (Phase 4) |
+| D-32 | On-site sign-off (F-5) | Always ask via CS vs accept the SPOC/reporter sign-off | **Accept the sign-off from the reporter or SPOC** as confirmation; anyone else's still needs CS to ask. | Relies on the SE app capturing who signed `[A-21]` | Proposed (Phase 4) |

diff --git a/padcare-assessment/README.md b/padcare-assessment/README.md
@@ -8,8 +8,8 @@ This is separate from the CEMS app in the repo root.
 | 0 Requirements extraction | `00_phase0/` | Done |
 | 1 Problem framing & classification | `01_phase1/` | Done |
 | 2 End-to-end process & SLAs | `02_phase2/` | Done |
-| 3 Task 1 reasoning & Challenges Map | `03_phase3/` | Done, awaiting review |
-| 4 Task 2 walkthroughs | `04_phase4/` | Not started |
+| 3 Task 1 reasoning & Challenges Map | `03_phase3/` | Done |
+| 4 Task 2 walkthroughs | `04_phase4/` | Done, awaiting review |
 | 5 Task 3 intake spec | `05_phase5/` | Not started |
 | 6 Functional tests | `06_phase6/` | Not started |
 | 7 Data model & analytics | `07_phase7/` | Not started |
